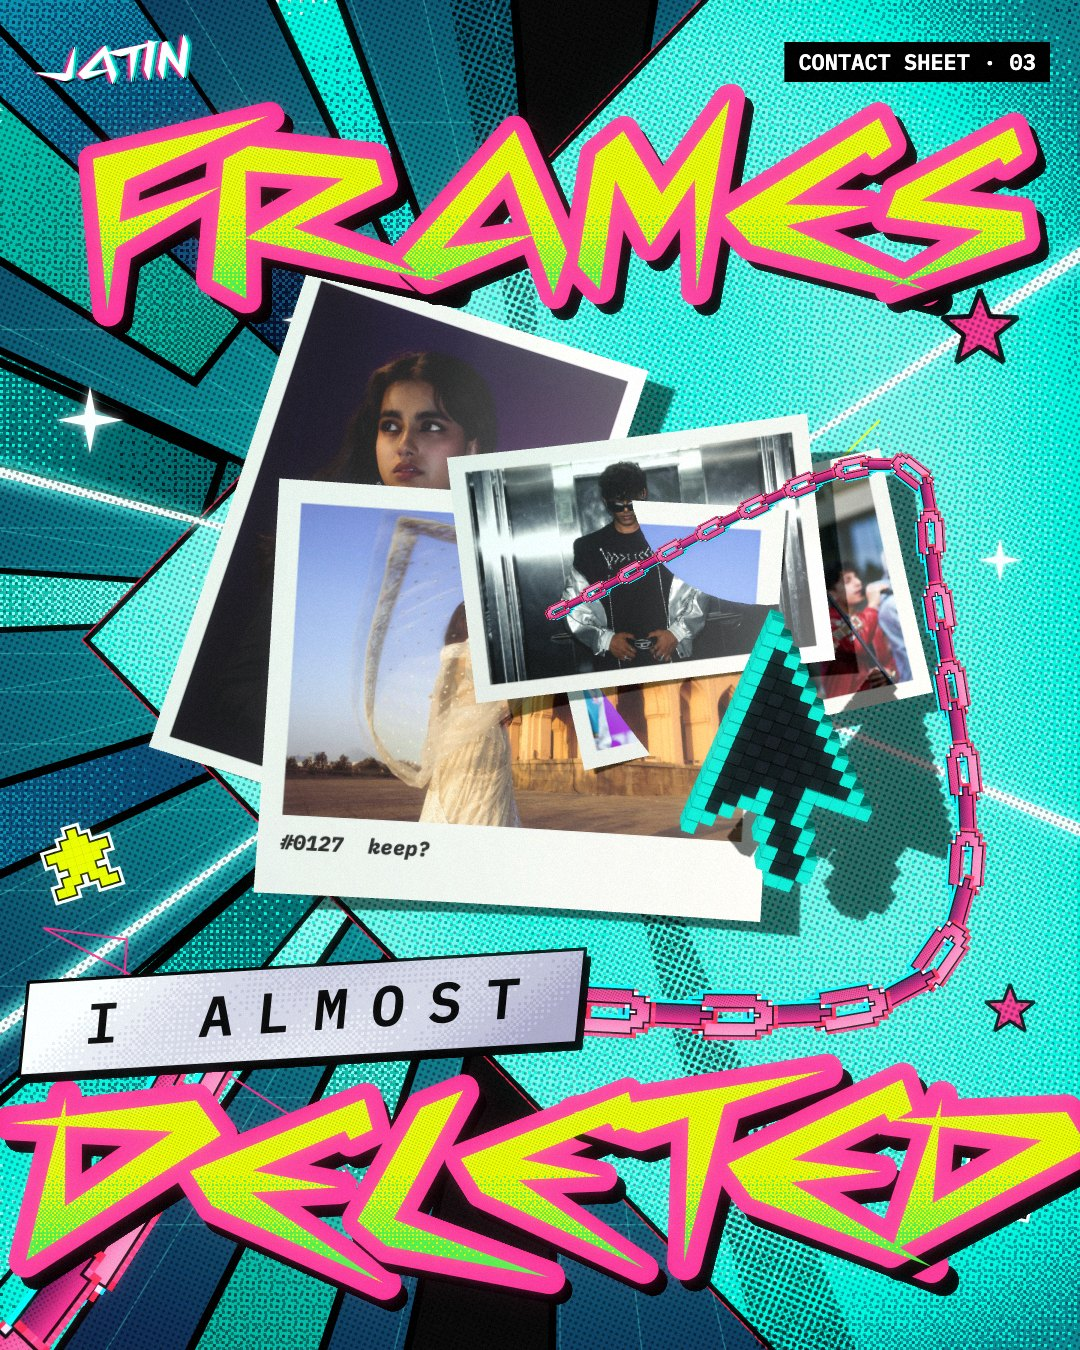
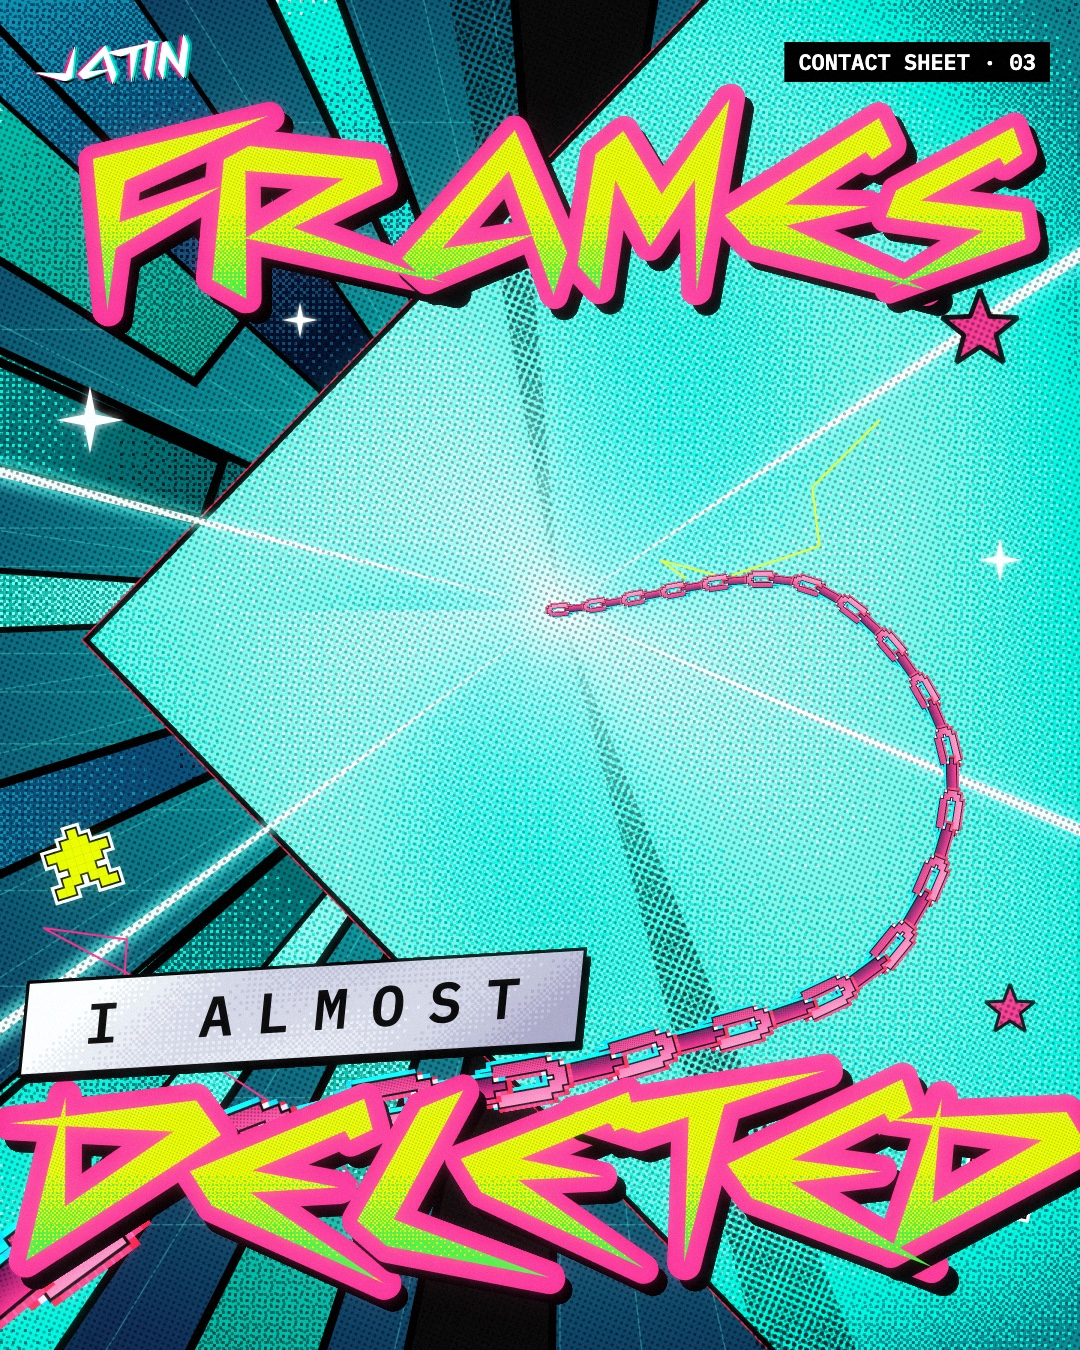
Content look round 7: posts lose the 3D props, chain runs on one smooth curve

diff --git a/personal-brand/kit/studio/studio.html b/personal-brand/kit/studio/studio.html
@@ -397,6 +397,20 @@ function chainLinks(keys,cell){
     const k=p[2]+(q[2]-p[2])*f;out.push({i,x:p[0]+(q[0]-p[0])*f,y:p[1]+(q[1]-p[1])*f,a:Math.atan2(q[1]-p[1],q[0]-p[0]),c:cell*k});d+=CH_PITCH*cell*k;i++}
   return out;
 }
+// round 7: a smooth curve through a few points (centripetal Catmull-Rom, tangents matched to each span),
+// links grow geometrically with distance ALONG the whole path, so the perspective never jumps at a joint
+function chainCurve(pts,k0,k1,cell){
+  const Q=[[2*pts[0][0]-pts[1][0],2*pts[0][1]-pts[1][1]],...pts,[2*pts.at(-1)[0]-pts.at(-2)[0],2*pts.at(-1)[1]-pts.at(-2)[1]]],P=[];
+  for(let s=1;s<Q.length-2;s++){const [p0,p1,p2,p3]=[Q[s-1],Q[s],Q[s+1],Q[s+2]],dt=(a,b)=>Math.pow(Math.hypot(b[0]-a[0],b[1]-a[1]),.5)||1e-3;
+    const t0=0,t1=dt(p0,p1),t2=t1+dt(p1,p2),t3=t2+dt(p2,p3);
+    for(let j=0;j<=200;j++){if(s>1&&!j)continue;const t=t1+(t2-t1)*j/200,L=(a,b,ta,tb)=>[0,1].map(c=>((tb-t)*a[c]+(t-ta)*b[c])/(tb-ta));
+      const A1=L(p0,p1,t0,t1),A2=L(p1,p2,t1,t2),A3=L(p2,p3,t2,t3),B1=L(A1,A2,t0,t2),B2=L(A2,A3,t1,t3);P.push(L(B1,B2,t1,t2))}}
+  const D=[0];for(let i=1;i<P.length;i++)D[i]=D[i-1]+Math.hypot(P[i][0]-P[i-1][0],P[i][1]-P[i-1][1]);const T=D.at(-1);
+  const out=[];let d=0,j=0,i=0;
+  while(d<T){while(j<P.length-2&&D[j+1]<d)j++;const f=(d-D[j])/((D[j+1]-D[j])||1),p=P[j],q=P[j+1],k=k0*Math.pow(k1/k0,d/T);
+    out.push({i,x:p[0]+(q[0]-p[0])*f,y:p[1]+(q[1]-p[1])*f,a:Math.atan2(q[1]-p[1],q[0]-p[0]),c:cell*k});d+=CH_PITCH*cell*k;i++}
+  return out;
+}
 function layChain(x,links,pal){links.slice().sort((a,b)=>a.i-b.i).forEach(l=>chLink(x,l.i,l.x,l.y,l.a,l.c,pal))}
 function burst(x,cx,cy,r,seed=3){SEED=seed;x.save();x.translate(cx,cy);const n=14,pts=[];for(let i=0;i<n*2;i++){const a=i/(n*2)*6.283,rad=i%2?r*rr(.35,.5):r*rr(.75,1.1);pts.push([Math.cos(a)*rad,Math.sin(a)*rad])}
   const path=()=>{x.beginPath();pts.forEach(([a,b],i)=>i?x.lineTo(a,b):x.moveTo(a,b));x.closePath()};
@@ -437,19 +451,17 @@ function menuPlate(num,text,acc,w=760,h=118){const c=mk(w+40,h+40),x=c.getContex
   x.font='italic 700 50px "IBM Plex Mono"';x.fillStyle='#fff';x.fillText(text,h*.3+80,h*.52);return c}
 
 const DRAFTS={};
-DRAFTS.p1=async()=>{ // STOP editing SAFE — pink world; the chain comes out of the light and snaps over his print
+DRAFTS.p1=async()=>{ // STOP editing SAFE — pink world; the chain comes out of the light and snaps
   const acc=PAL.pink,VP=[790,560];
   postStage(acc,{vp:VP,seed:11,wedge:[[150,760],[1260,-520],[1260,1900]],
     streaks:[[-2.6,900,9],[-.35,800,6],[.55,1000,11],[2.25,700,5]],ink:[[-1.25,.06],[1.9,.05]],
     stars:[[110,1180,46,PAL.acid],[1000,1240,34,PAL.cyan],[60,560,30,PAL.pink]],sparkles:[[960,130,40],[150,330,26],[1010,900,22]],
     pixels:[[110,860,PAL.cyan,0,.3],[1000,1060,PAL.acid,1,-.2]],scribbles:[[200,1050,'#e8ff00'],[860,1180,'#00f0d8']]});
-  const A=await loadImg('../../../website/site/work/flux-02/20.jpg');
-  const pr=print(A,6.0,.05,.3);const [px,pz]=at(700,1030);pr.rotation.set(-Math.PI/2,0,.16);pr.position.set(px,.14,pz);SCN.add(pr);
-  // the chain: out of the light, round the left, then across the print toward the lens; it breaks over the print
-  const pal=chPal(PAL.acid),links=chainLinks([[790,560,-420,140,.32],[300,760,-60,420,.62],[420,1150,520,260,1.05],[1250,1430,700,200,2.1]],6);
-  const brk=links.findIndex(l=>l.x>590&&l.y>1080),keep=links.filter((l,i)=>i<brk||i>brk+1);
+  // the chain: out of the light, one wide sweep round the left and back across toward the lens; it snaps on the way
+  const pal=chPal(PAL.acid),links=chainCurve([[790,560],[420,760],[330,1000],[560,1230],[1320,1420]],.3,2.8,6);
+  const brk=links.findIndex(l=>l.x>600&&l.y>1200),keep=links.filter((l,i)=>i<brk||i>brk+1);
   const [cc,cx]=frameCanvas();layChain(cx,keep,pal);burst(cx,links[brk].x+20,links[brk].y-10,62,5);SCN.add(framePlane(cc,.6));
-  const [dc,dx]=frameCanvas();[[0,-210,-230,1.2],[1,310,-400,-.7]].forEach(([n,ox,oy,da])=>{const l=links[brk+n];chLink(dx,l.i,l.x+ox,l.y+oy,l.a+da,l.c*1.1,pal)});SCN.add(framePlane(dc,1.9));
+  const [dc,dx]=frameCanvas();[[0,-150,-170,1.2],[1,150,-340,-.7]].forEach(([n,ox,oy,da])=>{const l=links[brk+n];chLink(dx,l.i,l.x+ox,l.y+oy,l.a+da,l.c*1.1,pal)});SCN.add(framePlane(dc,1.9));
   const T=worldType(acc,[
     {t:'STOP',size:.27,x:.48,y:.185,rot:-.07,seed:3},
     {t:'editing',style:'plate',size:.052,x:.72,y:.31,rot:-.05,seed:5},
@@ -459,19 +471,14 @@ DRAFTS.p1=async()=>{ // STOP editing SAFE — pink world; the chain comes out of
   const bp=panel(menuPlate('01','do this instead..',acc),6.4,.75);bp.rotation.z=.06;const [bx,bz]=at(340,790,.75);bp.position.set(bx,.75,bz);SCN.add(bp);
   R.render(SCN,CAM);return finishPost(R.domElement,acc,'EDIT NOTES · 01');
 };
-DRAFTS.p2=async()=>{ // FRAMES i almost DELETED — cyan world; the stack sits in the light, the chain loops round it, the cursor picks the keeper
+DRAFTS.p2=async()=>{ // FRAMES i almost DELETED — cyan world; the chain loops out of the light and runs at the lens
   const acc=PAL.cyan,VP=[560,610];
   postStage(acc,{vp:VP,seed:23,wedge:[[90,640],[1250,-560],[1250,1840]],
     streaks:[[-2.9,800,7],[-.6,900,9],[.4,950,10],[2.5,800,6]],ink:[[-1.7,.05],[1.25,.06]],
     stars:[[980,330,40,PAL.pink],[90,1240,34,PAL.acid],[1010,1010,26,PAL.pink]],sparkles:[[90,420,34],[1000,560,22],[300,320,18]],
     pixels:[[1000,1180,PAL.pink,0,.2],[80,860,PAL.acid,1,-.3]],scribbles:[[140,980,'#ff2e88'],[880,420,'#e8ff00']]});
-  const ims=await Promise.all(['../../../website/site/work/flux-01/03.jpg','../../../website/site/work/outstation/04.jpg','../../../website/site/work/flux-03/01.jpg','../../../website/site/work/flux-02/16.jpg'].map(loadImg));
-  const pose=[[400,560,-.32],[730,610,.22],[520,700,-.06],[640,560,.12]];
-  ims.forEach((im,i)=>{const p=print(im,i===2?6.2:4.4,.05,.28+i*.05,i===2?'#0127  keep?':null);const [px,py,r]=pose[i],L=.25+i*.15,[wx,wz]=at(px,py,L);p.rotation.set(-Math.PI/2,0,r);p.position.set(wx,L,wz);SCN.add(p)});
-  const pal=chPal(PAL.pink),links=chainLinks([[560,610,420,-200,.3],[930,520,0,420,.55],[880,1000,-480,160,.85],[200,1060,-200,360,1.3],[-150,1500,-500,300,2.2]],6);
+  const pal=chPal(PAL.pink),links=chainCurve([[560,610],[820,590],[950,760],[880,960],[620,1060],[200,1160],[-250,1500]],.28,2.8,6);
   const [cc,cx]=frameCanvas();layChain(cx,links,pal);SCN.add(framePlane(cc,1.1));
-  const cur=voxels(CURSOR.map(r=>[...r].map(c=>c==='.'?0:c==='K'?1:2)),2,(i,j,k,w,h,d,v)=>v===1?PAL.cyan:(bay(i,j)>.5?'#15161d':'#0b0b10'),.17);
-  const [ux,uz]=at(800,760,2.2);cur.position.set(ux,2.2,uz);cur.rotation.set(-1.15,0,-.35);SCN.add(cur);
   const T=worldType(acc,[
     {t:'FRAMES',size:.185,x:.52,y:.16,rot:-.05,seed:11},
     {t:'i almost',style:'plate',size:.052,x:.28,y:.75,rot:-.06,seed:2},
@@ -480,46 +487,22 @@ DRAFTS.p2=async()=>{ // FRAMES i almost DELETED — cyan world; the stack sits i
   SCN.add(framePlane(T,1.5));
   R.render(SCN,CAM);return finishPost(R.domElement,acc,'CONTACT SHEET · 03');
 };
-DRAFTS.p3=async()=>{ // CUT IT in one NIGHT — acid world; the light comes out of the CRT's screen, like the ABOUT handycam
+DRAFTS.p3=async()=>{ // CUT IT in one NIGHT — acid world; the chain comes out of the light
   const acc=PAL.acid,VP=[520,990];
   postStage(acc,{vp:VP,seed:5,wedge:[[60,1020],[1250,-300],[1250,2200]],
     streaks:[[-2.2,1000,10],[-1.2,1100,8],[-.3,900,9],[.5,700,6]],ink:[[-.75,.05],[-1.75,.04]],
     stars:[[1000,760,44,PAL.pink],[90,700,30,PAL.cyan],[960,1260,30,PAL.pink]],sparkles:[[110,820,30],[1010,640,22]],
-    pixels:[[1010,1120,PAL.pink,1,.25],[70,1250,PAL.cyan,0,-.2]],scribbles:[[120,760,'#ff2e88'],[900,1120,'#00f0d8']]});
+    pixels:[[760,1180,PAL.pink,1,.25],[70,1250,PAL.cyan,0,-.2]],scribbles:[[120,760,'#ff2e88'],[900,1120,'#00f0d8']]});
   const T=worldType(acc,[
     {t:'CUT IT',size:.25,x:.49,y:.17,rot:-.06,seed:4},
     {t:'in one',style:'plate',size:.052,x:.76,y:.285,rot:-.05,seed:8},
     {t:'NIGHT',size:.25,x:.5,y:.385,rot:.04,seed:6}
   ]);
   SCN.add(framePlane(T,1.2));
-  const nx=26,ny=21,nz=16,cell=.24,g=new THREE.Group();
-  const cubes=[];
-  for(let i=0;i<nx;i++)for(let j=0;j<ny;j++)for(let k=0;k<nz;k++){
-    const cx=Math.min(i,nx-1-i),cy=Math.min(j,ny-1-j),cz=Math.min(k,nz-1-k);
-    const r=3;if(cx<r&&cy<r&&Math.hypot(r-cx-.5,r-cy-.5)>r)continue;
-    if(cx<2&&cz<2&&Math.hypot(2-cx-.5,2-cz-.5)>2)continue;if(cy<2&&cz<2&&Math.hypot(2-cy-.5,2-cz-.5)>2)continue;
-    const front=k>=nz-3,inGlass=i>=3&&i<nx-3&&j>=3&&j<ny-5;if(front&&inGlass)continue;
-    if(cx>0&&cy>0&&cz>0&&!(front))continue;
-    cubes.push([i,j,k]);
-  }
-  const geo=new THREE.BoxGeometry(cell*.93,cell*.93,cell*.93),mat=new THREE.MeshStandardMaterial({roughness:.3,metalness:.05});
-  const im=new THREE.InstancedMesh(geo,mat,cubes.length),M=new THREE.Matrix4(),C=new THREE.Color();
-  cubes.forEach(([i,j,k],n)=>{M.makeTranslation((i-nx/2+.5)*cell,(ny/2-j-.5)*cell,(k-nz/2+.5)*cell);im.setMatrixAt(n,M);
-    const base=j>=ny-4&&k>=nz-1?(i>nx-8&&i<nx-3&&(i%2)?'#ff2e88':(i<9&&i>2&&j===ny-3?'#000':'#22242e')):'#1a1b22';C.set(bay(i,j+k)>.62&&base==='#1a1b22'?'#262833':base).convertSRGBToLinear();im.setColorAt(n,C)});
-  im.castShadow=true;im.receiveShadow=true;g.add(im);
-  const scr=await loadImg('../../../website/site/work/flux-edits/02.jpg');
-  const sc=mk(1024,780),sx=sc.getContext('2d');cover(sx,scr,0,0,1024,780);
-  sx.fillStyle='rgba(0,0,0,.18)';for(let y=0;y<780;y+=4)sx.fillRect(0,y,1024,1);
-  sx.fillStyle=PAL.pink;sx.fillRect(0,0,1024,46);sx.fillStyle='#000';sx.font='36px VT323';sx.fillText('JATINSPACE · timeline_final_v9.drp',14,32);
-  sx.fillStyle='#000';sx.fillRect(40,690,944,54);sx.fillStyle=PAL.acid;sx.fillRect(46,696,700,42);sx.fillStyle='#fff';sx.font='38px VT323';sx.fillText('RENDERING  74%',760,728);
-  const glass=new THREE.Mesh(new THREE.PlaneGeometry((nx-6)*cell,(ny-8)*cell),new THREE.MeshStandardMaterial({map:tex(sc),emissive:'#ffffff',emissiveMap:tex(sc),emissiveIntensity:.85,roughness:.15}));
-  glass.position.set(0,(ny/2-3-(ny-8)/2)*cell,(nz/2-2.6)*cell);g.add(glass);
-  [-1,1].forEach(s=>{const kn=new THREE.Mesh(new THREE.CylinderGeometry(.32,.32,.22,24),new THREE.MeshStandardMaterial({color:s<0?'#c3cadf':PAL.pink,roughness:.25,metalness:s<0?.8:.1}));kn.rotation.x=Math.PI/2;kn.position.set((nx/2-4+s*1.4)*cell*.98,-(ny/2-2.3)*cell,nz/2*cell+.05);kn.castShadow=true;g.add(kn)});
-  const [gx,gz]=at(520,1000,2.3);g.rotation.set(-1.05,0,-.16);g.scale.setScalar(.82);g.position.set(gx,2.3,gz);SCN.add(g);
-  // the chain wraps out from behind the set and runs at the lens, bottom right
-  const pal=chPal(PAL.pink),links=chainLinks([[160,860,300,-250,.45],[520,700,420,40,.6],[930,880,60,380,.9],[1250,1450,300,500,1.9]],6);
+  // the chain comes out of the light, swings wide right and runs at the lens, bottom right
+  const pal=chPal(PAL.pink),links=chainCurve([[520,990],[740,830],[930,840],[1030,1040],[1080,1300],[1150,1560]],.3,2.8,6);
   const [cc,cx]=frameCanvas();layChain(cx,links,pal);SCN.add(framePlane(cc,.5));
-  const lp=panel(menuPlate('02','edit notes',acc,620),4.9,.7);lp.rotation.z=.05;const [lx,lz]=at(300,1270,.7);lp.position.set(lx,.7,lz);SCN.add(lp);
+  const lp=panel(menuPlate('02','edit notes',acc,620),4.9,.7);lp.rotation.z=.05;const [lx,lz]=at(330,1290,.7);lp.position.set(lx,.7,lz);SCN.add(lp);
   R.render(SCN,CAM);return finishPost(R.domElement,acc,'EDIT NOTES · 02');
 };
 

diff --git a/personal-brand/kit/concepts/2026-11-09-content-look/index.html b/personal-brand/kit/concepts/2026-11-09-content-look/index.html
@@ -40,9 +40,28 @@ figcaption b{color:var(--fg)}
 </style>
 
 <main class="wrap">
-  <p class="lbl">justjatin · content look · round 6 · posts · 10 nov 2026</p>
+  <p class="lbl">justjatin · content look · round 7 · posts · 10 nov 2026</p>
   <h1>Your language, at their production level</h1>
-  <p class="lede">Only the design and craft of your four references were looked at, never the topic. Below: what makes them land, how each move maps onto your language, and ten first drafts (3 posts, 7 reel frames). The drafts are rendered in a real 3D lighting pass with your own photos, not drawn flat.</p>
+  <p class="lede">Only the design and craft of your four references were looked at, never the topic. Below: what makes them land, how each move maps onto your language, and ten first drafts (3 posts, 7 reel frames). The drafts are rendered in a real 3D lighting pass, not drawn flat; the reels use your own photos.</p>
+
+  <h2>Round 7 · no props, one smooth chain</h2>
+  <p>Your note: <i>"remove the 3d assets like the photos and curser tv etc (keep chain ofc but the chain path is a bit wiggly need to it to have smooth curved path)"</i>.</p>
+  <ul class="fix">
+    <li><b>The props are gone:</b> the photo prints, the cursor and the CRT. Each post is now the world, the type and the chain.</li>
+    <li><b>The chain runs on one smooth curve.</b> It's drawn through a few points with the bends worked out from the spacing between them, so it can't kink or wobble at a joint. It comes out of the light small and grows steadily toward you along the whole run, without jumping at the joins.</li>
+    <li><b>The chain carries the frame:</b> it grows bigger toward the lens than before (2.8× the start). STOP SAFE keeps its snap, with the two loose links flying clear.</li>
+  </ul>
+  <div class="posts">
+    <figure><img src="img/p1.jpg" width="1080" height="1350" alt="Round 7 post: STOP EDITING SAFE, the acid chain sweeping out of the light and snapping"><figcaption><b>STOP editing SAFE.</b></figcaption></figure>
+    <figure><img src="img/p2.jpg" width="1080" height="1350" alt="Round 7 post: FRAMES I ALMOST DELETED, the pink chain looping out of the light"><figcaption><b>FRAMES i almost DELETED.</b></figcaption></figure>
+    <figure><img src="img/p3.jpg" width="1080" height="1350" alt="Round 7 post: CUT IT IN ONE NIGHT, the pink chain arcing out of the light toward the lens"><figcaption><b>CUT IT in one NIGHT.</b></figcaption></figure>
+  </div>
+  <p class="lbl" style="margin-top:28px">Round 6, for comparison</p>
+  <div class="ba">
+    <figure><img src="img/p1-round6.jpg" width="1080" height="1350" alt="Round 6 STOP editing SAFE with a photo print under the chain" loading="lazy"><figcaption>R6</figcaption></figure>
+    <figure><img src="img/p2-round6.jpg" width="1080" height="1350" alt="Round 6 FRAMES i almost DELETED with a stack of prints and the cursor" loading="lazy"><figcaption>R6</figcaption></figure>
+    <figure><img src="img/p3-round6.jpg" width="1080" height="1350" alt="Round 6 CUT IT in one NIGHT with the voxel CRT" loading="lazy"><figcaption>R6</figcaption></figure>
+  </div>
 
   <h2>Round 6 · the WHO I AM type</h2>
   <p>Your note: <i>"use the same font as the WHO I AM text and bold doe'snt look"</i>.</p>
@@ -50,11 +69,6 @@ figcaption b{color:var(--fg)}
     <li><b>The plate type is the WHO I AM tag's exactly:</b> IBM Plex Mono 600, upright, uppercase, tracked wide (.42em), slanted only by the plate's own skew. Same as the menu's tag.</li>
     <li><b>The fake bold is gone.</b> No extra outline stroke; the letterforms stay clean.</li>
   </ul>
-  <div class="posts">
-    <figure><img src="img/p1.jpg" width="1080" height="1350" alt="Round 6 post: STOP EDITING SAFE, EDITING on a silver plate in tracked uppercase mono"><figcaption><b>STOP editing SAFE.</b></figcaption></figure>
-    <figure><img src="img/p2.jpg" width="1080" height="1350" alt="Round 6 post: FRAMES I ALMOST DELETED, I ALMOST on a silver plate in tracked uppercase mono"><figcaption><b>FRAMES i almost DELETED.</b></figcaption></figure>
-    <figure><img src="img/p3.jpg" width="1080" height="1350" alt="Round 6 post: CUT IT IN ONE NIGHT, IN ONE on a silver plate in tracked uppercase mono"><figcaption><b>CUT IT in one NIGHT.</b></figcaption></figure>
-  </div>
   <p class="lbl" style="margin-top:28px">Round 5, for comparison</p>
   <div class="ba">
     <figure><img src="img/p1-round5.jpg" width="1080" height="1350" alt="Round 5 STOP editing SAFE with bold italic plate type" loading="lazy"><figcaption>R5</figcaption></figure>

diff --git a/personal-brand/kit/concepts/2026-11-09-content-look/README.md b/personal-brand/kit/concepts/2026-11-09-content-look/README.md
@@ -138,3 +138,22 @@ only by the plate's skew (−9°, as on the site), with padding in the tag's pro
 gone. The plate size is down to .052 of the width, since the tracking makes the run long.
 
 **Stills:** round 5 is `img/p*-round5.jpg`; round 6 is `img/p*.jpg`.
+
+## Round 7 — 2026-11-10 · no props, one smooth chain
+
+**His note, in his words:** "Alright nice now let's just remove the 3d assets like the photos and curser tv etc (keep
+chain ofc but the chain path is a bit wiggly need to it to have smooth curved path)".
+
+**Built:**
+- **Props removed:** the photo prints, the voxel cursor and the voxel CRT. Each post is now the world, the type and the
+  chain.
+- **`chainCurve(points,k0,k1,cell)`:** replaces the hand-tangent Hermite keys, which caused the wiggle because their
+  tangents didn't match the span lengths. It's a centripetal Catmull-Rom through 4–7 points, so it can't loop or cusp
+  inside a span. Link size grows geometrically with arc length along the WHOLE path (from .3 to 2.8), so the
+  perspective never jumps at a joint.
+- **First-pass fixes:** p2's top-right corner and p3's peak still turned too tight, so I spread the points round the
+  bends. p1's flying link sat on a pixel sticker, and p3's sticker sat on the chain; both moved.
+
+**Rule:** a chain path is a few well-spaced points on a smooth spline. Never hand-set tangents.
+
+**Stills:** round 6 is `img/p*-round6.jpg`; round 7 is `img/p*.jpg`.

diff --git a/website/docs/HANDOFF.md b/website/docs/HANDOFF.md
@@ -3,6 +3,12 @@
 Newest on top. Each entry: date · did · in flight · next · watch out.
 
 ---
+## 2026-11-10 — Content look round 7 (no props, smooth chain)
+- **His note:** remove the 3D props (photos, cursor, CRT); keep the chain on a smooth curved path.
+- **Did:** props out of p1–p3; new `chainCurve` (centripetal Catmull-Rom, link size by arc length) replaces the Hermite keys for the posts. Doc v7 (same URL); round 6 stills kept as `p*-round6.jpg`.
+- **Next:** his notes on R7; then the reels. The beige-computer swap is moot now (the CRT is gone).
+- **Watch out:** the reels' code still uses `chainLinks`/`voxels`; leave them until the reels round.
+
 ## 2026-11-10 — project moved to ~/Documents/jatin-site (his ask)
 - **Did:** moved the whole folder from ~/Downloads (same disk; Documents is not iCloud-synced). Claude memory copied to the new project key. Site checks pass from the new spot.
 - **Watch out:** older Claude sessions still point at ~/Downloads/jatin-site and won't find the files; start new sessions from ~/Documents/jatin-site. `~/Downloads/jatin-site.zip` is an old August copy, not this project.

diff --git a/website/docs/process/JOURNAL.md b/website/docs/process/JOURNAL.md
@@ -13,6 +13,12 @@ by piece and marked "Oct 2026".
 
 
 
+## 2026-11-10 (last) — the posts let go of their props
+
+Once the type sat right, he took the props out: the prints, the cursor, the TV. What's left is his world, his words
+and the chain, which now has to carry each frame by itself. It also had to stop wobbling. The old path was steered by
+hand at each joint, and the joints showed. Now it's one smooth curve laid through a few points, coming out of the
+light small and growing steadily toward you. On STOP SAFE it still snaps.
 ## 2026-11-10 (later still) — the plates speak like the menu tag
 
 The bold italic on the silver plates didn't sit right with him. He pointed at WHO I AM, the menu's own tag, so the
